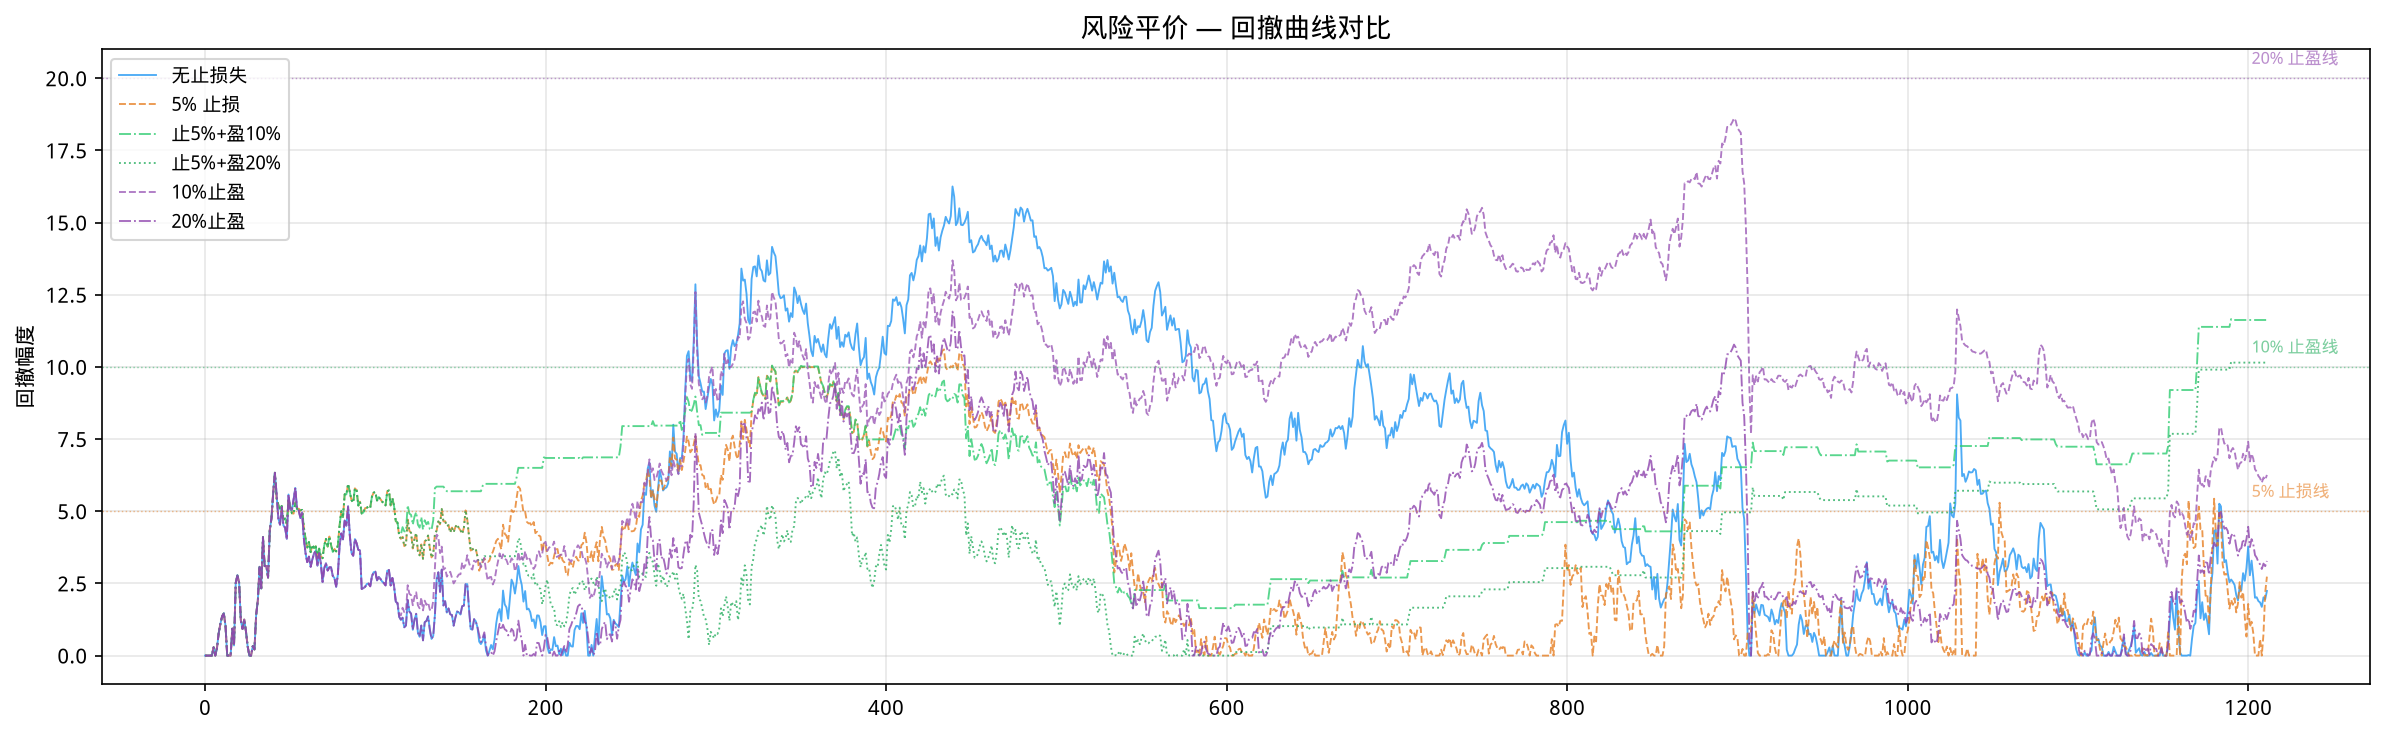
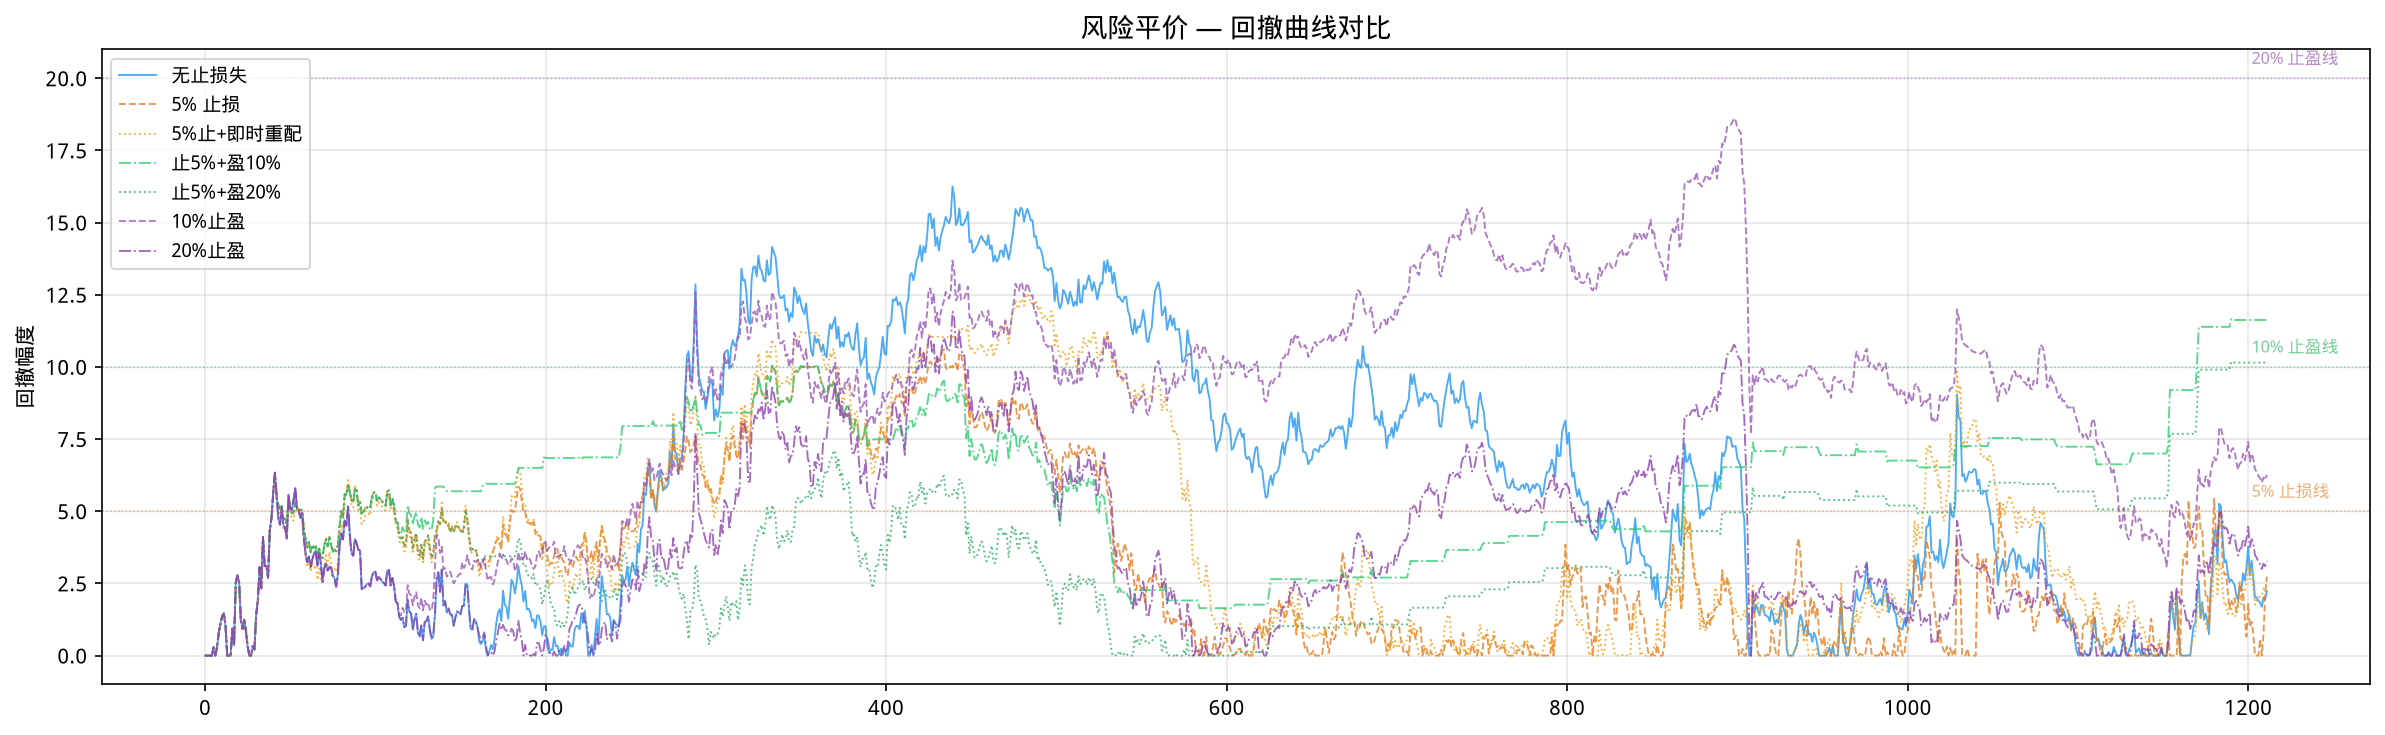
feat: 止损后即时重配对比
- 新增 rebalance_on_stop 参数，止损后立即将现金按风险平价重配给剩余 ETF
- 结果：即时重配仅 +29%（vs 现金闲置 +83%）
- 现金闲置更优，避免加仓在高点 + 佣金损耗

diff --git a/2-quant-trading/02-backtest/code/risk_parity_stop_loss.py b/2-quant-trading/02-backtest/code/risk_parity_stop_loss.py
@@ -22,20 +22,23 @@ COMMISSION_RATE = 0.001
 MIN_COMMISSION = 5.0
 
 CONFIGS = [
-    ("none",         None,  None,  "无止损失"),
-    ("sl_5",         0.05,  None,  "5% 止损"),
-    ("sl_5_tp_10",   0.05,  0.10,  "止5%+盈10%"),
-    ("sl_5_tp_20",   0.05,  0.20,  "止5%+盈20%"),
-    ("tp_10",        None,  0.10,  "10%止盈"),
-    ("tp_20",        None,  0.20,  "20%止盈"),
+    ("none",          None,  None,  False,  "无止损失"),
+    ("sl_5",          0.05,  None,  False,  "5% 止损"),
+    ("sl_5_immediate", 0.05,  None,  True,  "5%止+即时重配"),
+    ("sl_5_tp_10",    0.05,  0.10,  False,  "止5%+盈10%"),
+    ("sl_5_tp_20",    0.05,  0.20,  False,  "止5%+盈20%"),
+    ("tp_10",         None,  0.10,  False,  "10%止盈"),
+    ("tp_20",         None,  0.20,  False,  "20%止盈"),
 ]
 CFG_COLORS = {
     "none": "#2196F3", "sl_5": "#e67e22",
+    "sl_5_immediate": "#f39c12",
     "sl_5_tp_10": "#2ecc71", "sl_5_tp_20": "#27ae60",
     "tp_10": "#9b59b6", "tp_20": "#8e44ad",
 }
 CFG_LINESTYLES = {
     "none": "-", "sl_5": "--",
+    "sl_5_immediate": ":",
     "sl_5_tp_10": "-.", "sl_5_tp_20": ":",
     "tp_10": "--", "tp_20": "-.",
 }
@@ -81,6 +84,7 @@ class RiskParityWithStopLoss(bt.Strategy):
         ("rebalance_freq", "monthly"),
         ("drawdown_stop", None),
         ("take_profit", None),
+        ("rebalance_on_stop", False),
     )
 
     def __init__(self):
@@ -145,7 +149,22 @@ class RiskParityWithStopLoss(bt.Strategy):
                             self._sold_etfs[d._name] = "take"
                             events["taken"].append(d._name)
 
-        # ── 再平衡日：重置状态，重新分配权重 ──
+        # ── 止损后即时重配：将现金重新分配到剩余 ETF ──
+        if self.params.rebalance_on_stop and (events["stopped"] or events["taken"]):
+            remaining = [d for d in self.datas if d._name not in self._sold_etfs]
+            if remaining:
+                vols = {}
+                for d in remaining:
+                    vols[d._name] = d.vol[0]
+                clean = {k: v for k, v in vols.items()
+                         if v is not None and v > 0 and not np.isnan(v)}
+                if clean:
+                    inv = {k: 1.0 / v for k, v in clean.items()}
+                    total = sum(inv.values())
+                    for d in remaining:
+                        self.order_target_percent(d, inv[d._name] / total)
+
+        # ── 再平衡日 ──
         if is_rebalance:
             self._sold_etfs.clear()
             for d in self.datas:
@@ -174,6 +193,7 @@ class RiskParityWithStopLoss(bt.Strategy):
 # ══════════════════════════════════════════════════════════════════
 
 def run_one(key: str, sl_threshold: float | None, tp_threshold: float | None,
+            rebalance_on_stop: bool,
             data_panel: dict[str, pd.DataFrame]) -> dict:
     cerebro = bt.Cerebro()
     for symbol, df in data_panel.items():
@@ -186,6 +206,7 @@ def run_one(key: str, sl_threshold: float | None, tp_threshold: float | None,
         rebalance_freq="monthly",
         drawdown_stop=sl_threshold,
         take_profit=tp_threshold,
+        rebalance_on_stop=rebalance_on_stop,
     )
     cerebro.broker.setcash(INITIAL_CASH)
 
@@ -244,7 +265,7 @@ def generate_charts(results: dict, panel: dict[str, pd.DataFrame]):
 
     # ── Chart 1: 净值对比 ──
     fig1, ax1 = plt.subplots(figsize=(16, 7))
-    for key, _, _, label in CONFIGS:
+    for key, _, _, _, label in CONFIGS:
         recs = results[key]["history"]
         df = pd.DataFrame([{"date": r[0], "value": r[1]} for r in recs])
         df["date"] = pd.to_datetime(df["date"])
@@ -279,10 +300,10 @@ def generate_charts(results: dict, panel: dict[str, pd.DataFrame]):
     plt.close(fig1)
     print("  ✓ assets/rp-sl-tp-nav-compare.png")
 
-    # ── Chart 2: 事件标注（2×3 子图） ──
-    fig2, axes = plt.subplots(2, 3, figsize=(18, 10))
+    # ── Chart 2: 事件标注（3×3 子图，隐藏多余） ──
+    fig2, axes = plt.subplots(3, 3, figsize=(18, 12))
     axes = axes.flatten()
-    for idx, (key, _, _, label) in enumerate(CONFIGS):
+    for idx, (key, _, _, _, label) in enumerate(CONFIGS):
         ax = axes[idx]
         recs = results[key]["history"]
         df = pd.DataFrame([
@@ -318,6 +339,8 @@ def generate_charts(results: dict, panel: dict[str, pd.DataFrame]):
         ax.xaxis.set_major_locator(mdates.MonthLocator(interval=12))
         ax.xaxis.set_major_formatter(mdates.DateFormatter("%Y-%m"))
         plt.setp(ax.xaxis.get_majorticklabels(), rotation=45)
+    for ax in axes[len(CONFIGS):]:
+        ax.set_visible(False)
     fig2.suptitle("风险平价止损/止盈触发点标注（▼止损 ▲止盈）",
                   fontsize=14, fontweight="bold")
     fig2.tight_layout()
@@ -328,7 +351,7 @@ def generate_charts(results: dict, panel: dict[str, pd.DataFrame]):
 
     # ── Chart 3: 回撤曲线对比 ──
     fig3, ax3 = plt.subplots(figsize=(16, 5))
-    for key, _, _, label in CONFIGS:
+    for key, _, _, _, label in CONFIGS:
         values = [h[1] for h in results[key]["history"]]
         peak = np.maximum.accumulate(values)
         dd = (peak - np.array(values)) / peak
@@ -363,7 +386,7 @@ if __name__ == "__main__":
     print("  止损 + 止盈保护研究 — 风险平价")
     print(f"  策略: 风险平价 + 每月再平衡")
     print(f"  佣金: {COMMISSION_RATE:.1%}  最低 ¥{MIN_COMMISSION:.0f}")
-    print(f"  方案: {' | '.join(c[3] for c in CONFIGS)}")
+    print(f"  方案: {' | '.join(c[4] for c in CONFIGS)}")
     print("=" * 72)
 
     print("\n▶ 获取数据 + 计算指标...")
@@ -373,10 +396,10 @@ if __name__ == "__main__":
 
     print("\n▶ 运行回测...")
     results = {}
-    for key, sl_th, tp_th, label in CONFIGS:
+    for key, sl_th, tp_th, rebal_on_stop, label in CONFIGS:
         print(f"  ▶ {label:>10}...", end=" ")
         sys.stdout.flush()
-        results[key] = run_one(key, sl_th, tp_th, panel)
+        results[key] = run_one(key, sl_th, tp_th, rebal_on_stop, panel)
         r = results[key]
         parts = [f"¥{r['final_value']:>8,.0f}  ({r['total_return']:+>+7.2%})",
                  f"夏普 {r['sharpe']:.2f}",
@@ -393,7 +416,7 @@ if __name__ == "__main__":
     header = f"  {'方案':<12} {'最终值':>10} {'累计收益':>10} {'年化收益':>10} {'最大回撤':>10} {'夏普':>8} {'止损天':>6} {'止盈天':>6}"
     print(header)
     print(f"  {'─' * 78}")
-    for key, _, _, label in CONFIGS:
+    for key, _, _, _, label in CONFIGS:
         r = results[key]
         print(f"  {label:<12}"
               f" ¥{r['final_value']:>8,.0f}"

diff --git a/2-quant-trading/02-backtest/notes/portfolio-allocation.md b/2-quant-trading/02-backtest/notes/portfolio-allocation.md
@@ -550,6 +550,24 @@ for method in ["equal-weight", "risk-parity", "momentum-rank"]:
 
 **结论：风险平价不需要止盈。** 止损限制尾部风险就够了，利润来源于长期持有让复利发挥作用。"截断亏损，让利润奔跑"——后半句对风险平价来说远不止是格言，是数学上的必要条件。
 
+### 止损后：现金闲置 vs 即时重配
+
+触发止损后，卖出的钱应该等着还是立即重配到剩下的 ETF？
+
+| 方案 | 累计收益 | 夏普 | 最大回撤 | 止损天数 |
+|------|---------|------|---------|---------|
+| **5% 止损（现金闲置）** | **+82.94%** | **0.71** | 10.61% | 33 |
+| 5% 止损 + 即时重配 | +29.08% | 0.28 | 12.54% | 56 |
+| 无止损失（基准） | +28.45% | 0.25 | 16.25% | — |
+
+**即时重配反而把收益从 +82.94% 拉回到 +29.08%，几乎和无止损一样。** 原因：
+
+- 止损卖出的资金立即加仓到剩下两只 → 容易加在高点（纳指正在涨的时候追加）
+- 下个月再平衡日又要重新分配三只 ETF → 刚加的部分又被卖出去买回沪深300
+- 额外交易 + 佣金
+
+**结论：止损后现金闲置是对的。** 现金就是期权——等下个月再平衡日再决策，不着急把钱推出去。这个结果也间接印证了一个原则：风险平价的再平衡频率（每月）应该严格执行，不要在盘中自作聪明。
+
 ---
 
 | 维度 | 等权 | 风险平价 | 动量排名 |